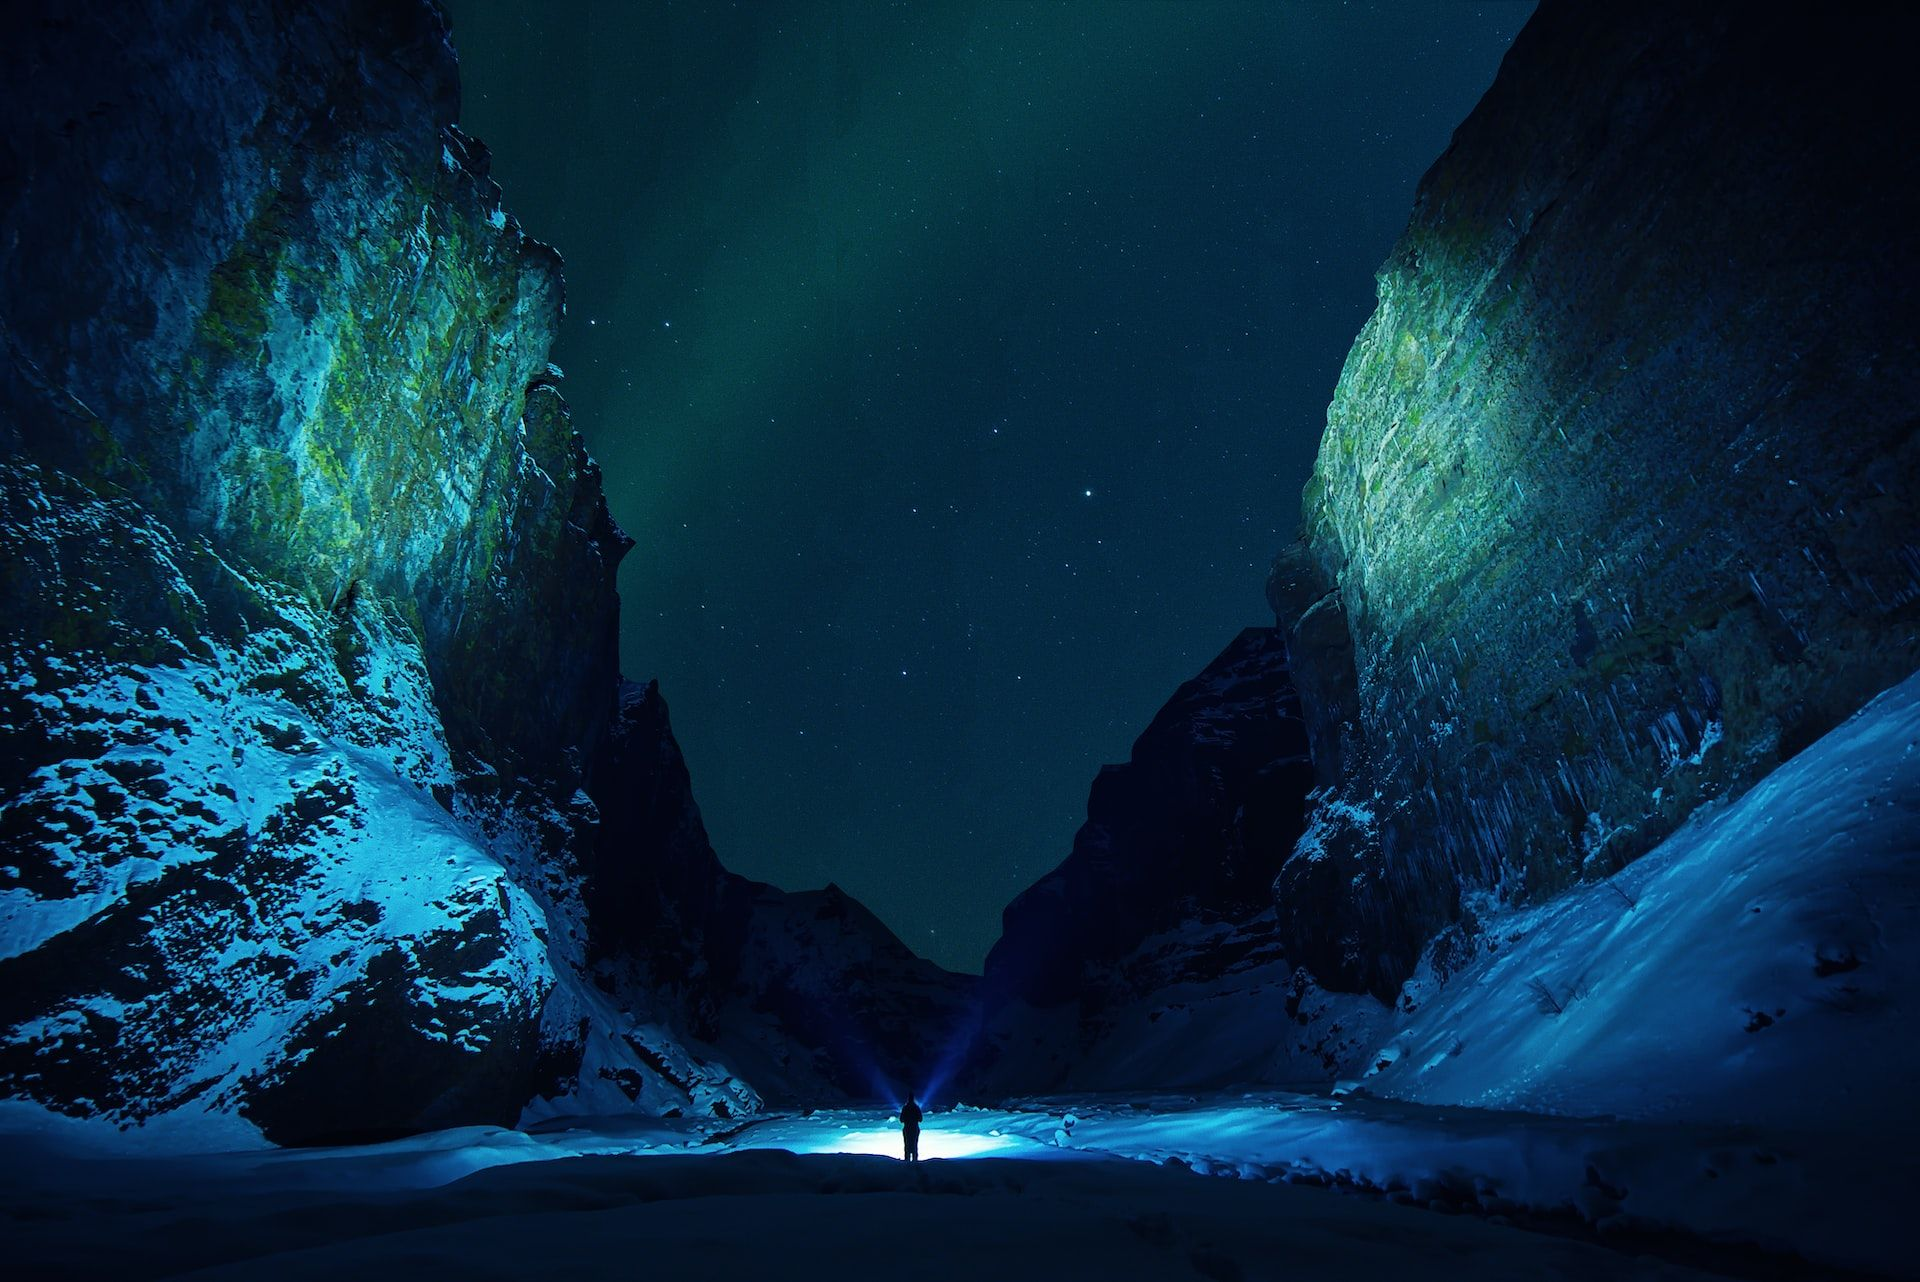
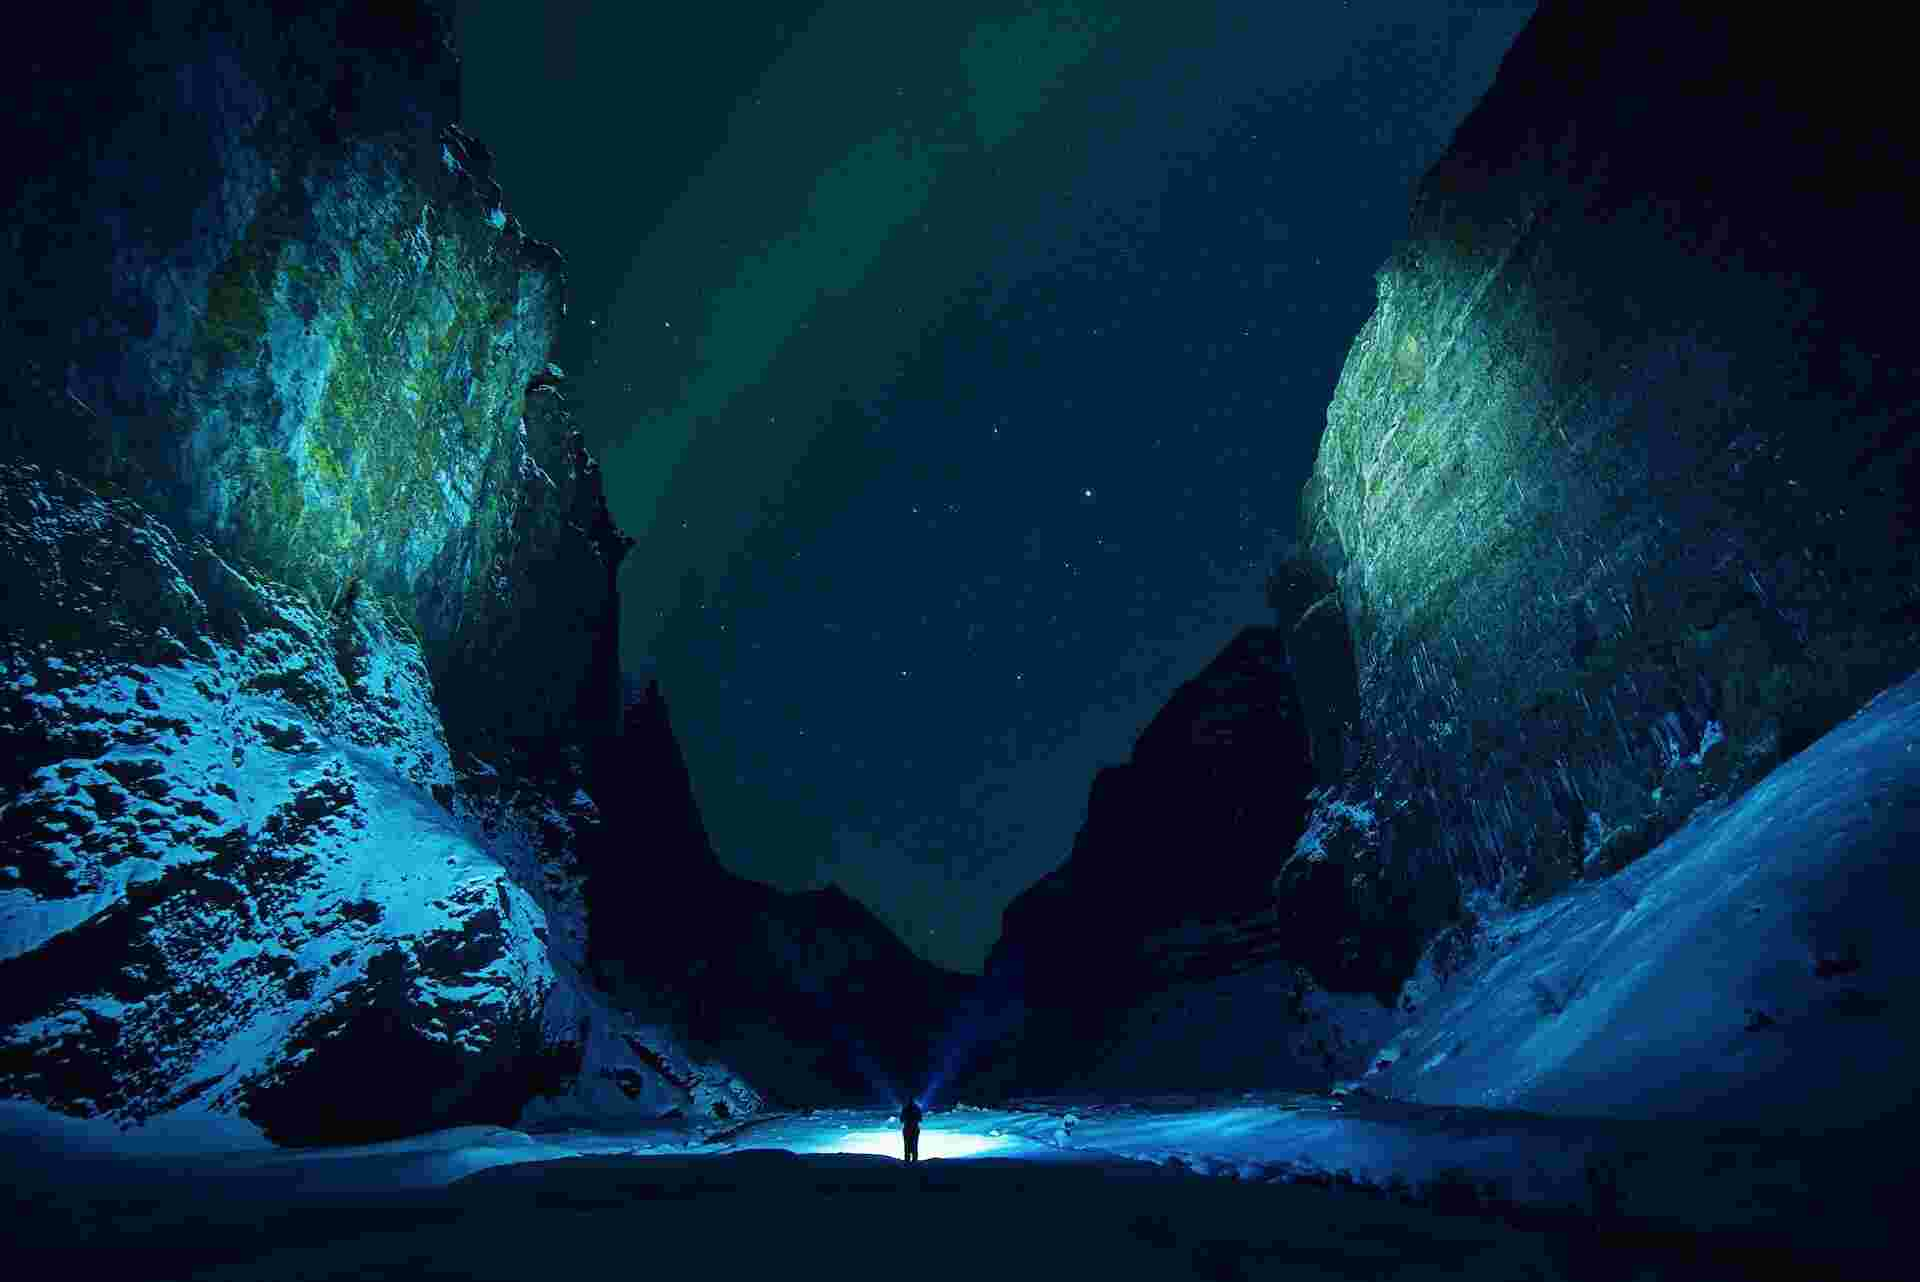
save

diff --git a/src/Portfolio/AboutMe.jsx b/src/Portfolio/AboutMe.jsx
@@ -33,11 +33,11 @@ export default function AboutMe() {
                   </h2>
                   <p className="intro_para">
                     I am Yasir Ado Hassan, professionally known as
-                    'ysquareimperial.' As a Frontend Software Engineer,
-                    I have three years of hands-on experience in web
-                    development. My expertise lies in leveraging
-                    cutting-edge frontend technologies to craft innovative
-                    solutions for real-world challenges.
+                    'ysquareimperial.' As a Frontend Software Engineer, I have
+                    three years of hands-on experience in web development. My
+                    expertise lies in leveraging cutting-edge frontend
+                    technologies to craft innovative solutions for real-world
+                    challenges.
                   </p>
                 </div>
               </Col>

diff --git a/src/Portfolio/Portfolio.css b/src/Portfolio/Portfolio.css
@@ -182,7 +182,10 @@
       rgba(217, 187, 211, 1) 0%,
       rgba(99, 4, 44, 1) 100%
     ); */
-    background: url('../images/pbg.png');
+    background: url('../images/pbg..jpg') center center;
+    background-repeat: no-repeat;
+    background-size: cover;
+    width: 100%;
     height: 100vh;
   }
 }
@@ -219,7 +222,10 @@
       rgba(217, 187, 211, 1) 0%,
       rgba(99, 4, 44, 1) 100%
     ); */
-    background: url('../images/pbg.png');
+    background: url('../images/pbg..jpg') center center;
+    background-repeat: no-repeat;
+    background-size: cover;
+    width: 100%;
 
   }
   .port_name {
